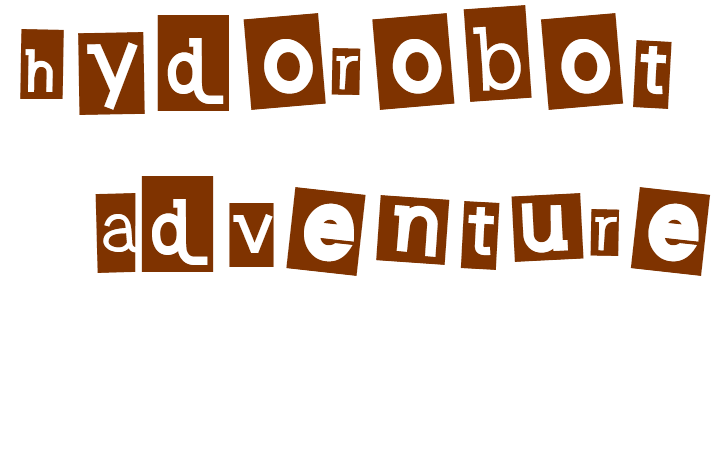
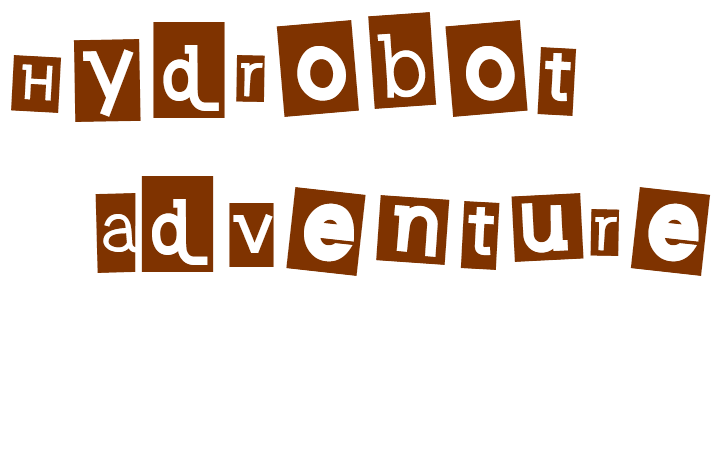
Fixed typo in start scene :P

Changed region(s): [[0.0, 0.0, 0.9538, 0.28]]

diff --git a/Poseidon/Poseidon/StartScene.cs b/Poseidon/Poseidon/StartScene.cs
@@ -24,7 +24,7 @@ namespace Poseidon
         // Spritebatch
         protected SpriteBatch spriteBatch = null;
         // Gui Stuff
-        protected Rectangle rockRect = new Rectangle(0, 0, 681, 126);
+        protected Rectangle rockRect = new Rectangle(0, 0, 588, 126);
         protected Vector2 rockPosition;
         protected Rectangle rainRect = new Rectangle(90, 169, 620, 126);
         protected Vector2 rainPosition;
